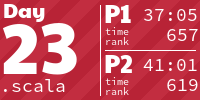
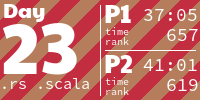
Add solution for 2022 day 23 part 2

diff --git a/src/y2022/day23.rs b/src/y2022/day23.rs
@@ -2,6 +2,7 @@ use std::{collections::HashSet, io::BufRead};
 
 use glam::IVec2;
 use itertools::Itertools;
+use rayon::iter::{IntoParallelRefIterator, ParallelIterator};
 
 use crate::{
     common::{
@@ -51,24 +52,35 @@ impl AoCDay for Solution {
     }
 
     fn part2(&self) -> String {
-        todo!();
+        let mut elves = self.elves.clone();
+        for round in 0.. {
+            if move_round(&mut elves, round) == 0 {
+                return (round + 1).to_string();
+            }
+        }
+        unreachable!();
     }
 }
 
-fn move_round(elves: &mut HashSet<IVec2>, round: u16) {
+fn move_round(elves: &mut HashSet<IVec2>, round: u16) -> u16 {
     let preferred_targets = elves
-        .iter()
-        .filter_map(|elf| get_prefered_target(elves, elf, round).map(|target| (*elf, target)));
+        .par_iter()
+        .filter_map(|elf| get_prefered_target(elves, elf, round).map(|target| (*elf, target)))
+        .collect::<Vec<(IVec2, IVec2)>>();
 
+    let mut moves = 0;
     preferred_targets
+        .iter()
         .into_group_map_by(|(_, target)| *target)
         .into_iter()
         .for_each(|(target, from)| {
             if from.len() == 1 {
                 elves.remove(&from[0].0);
                 elves.insert(target);
+                moves += 1;
             }
         });
+    moves
 }
 
 fn get_prefered_target(elves: &HashSet<IVec2>, elf: &IVec2, round: u16) -> Option<IVec2> {
@@ -105,14 +117,12 @@ mod tests {
     }
 
     #[test]
-    #[ignore]
     fn test_part2_example() {
         let day = Solution::with_input(input!(example: 2022 23));
         assert_eq!(day.part2(), "20");
     }
 
     #[test]
-    #[ignore]
     fn test_part2_input() {
         let day = Solution::with_input(input!(input: 2022 23));
         assert_eq!(day.part2(), "1008");

diff --git a/README.md b/README.md
@@ -71,7 +71,7 @@ Rust solutions for [Advent of Code](http://adventofcode.com/). My scala solution
 <a href="https://github.com/SuperTux88/adventofcode/blob/main/src/main/scala/adventofcode/y2022/Day22.scala">
   <img src="AoCTiles/2022/22.png" width="161px">
 </a>
-<a href="https://github.com/SuperTux88/adventofcode/blob/main/src/main/scala/adventofcode/y2022/Day23.scala">
+<a href="src/y2022/day23.rs">
   <img src="AoCTiles/2022/23.png" width="161px">
 </a>
 <a href="https://github.com/SuperTux88/adventofcode/blob/main/src/main/scala/adventofcode/y2022/Day24.scala">
